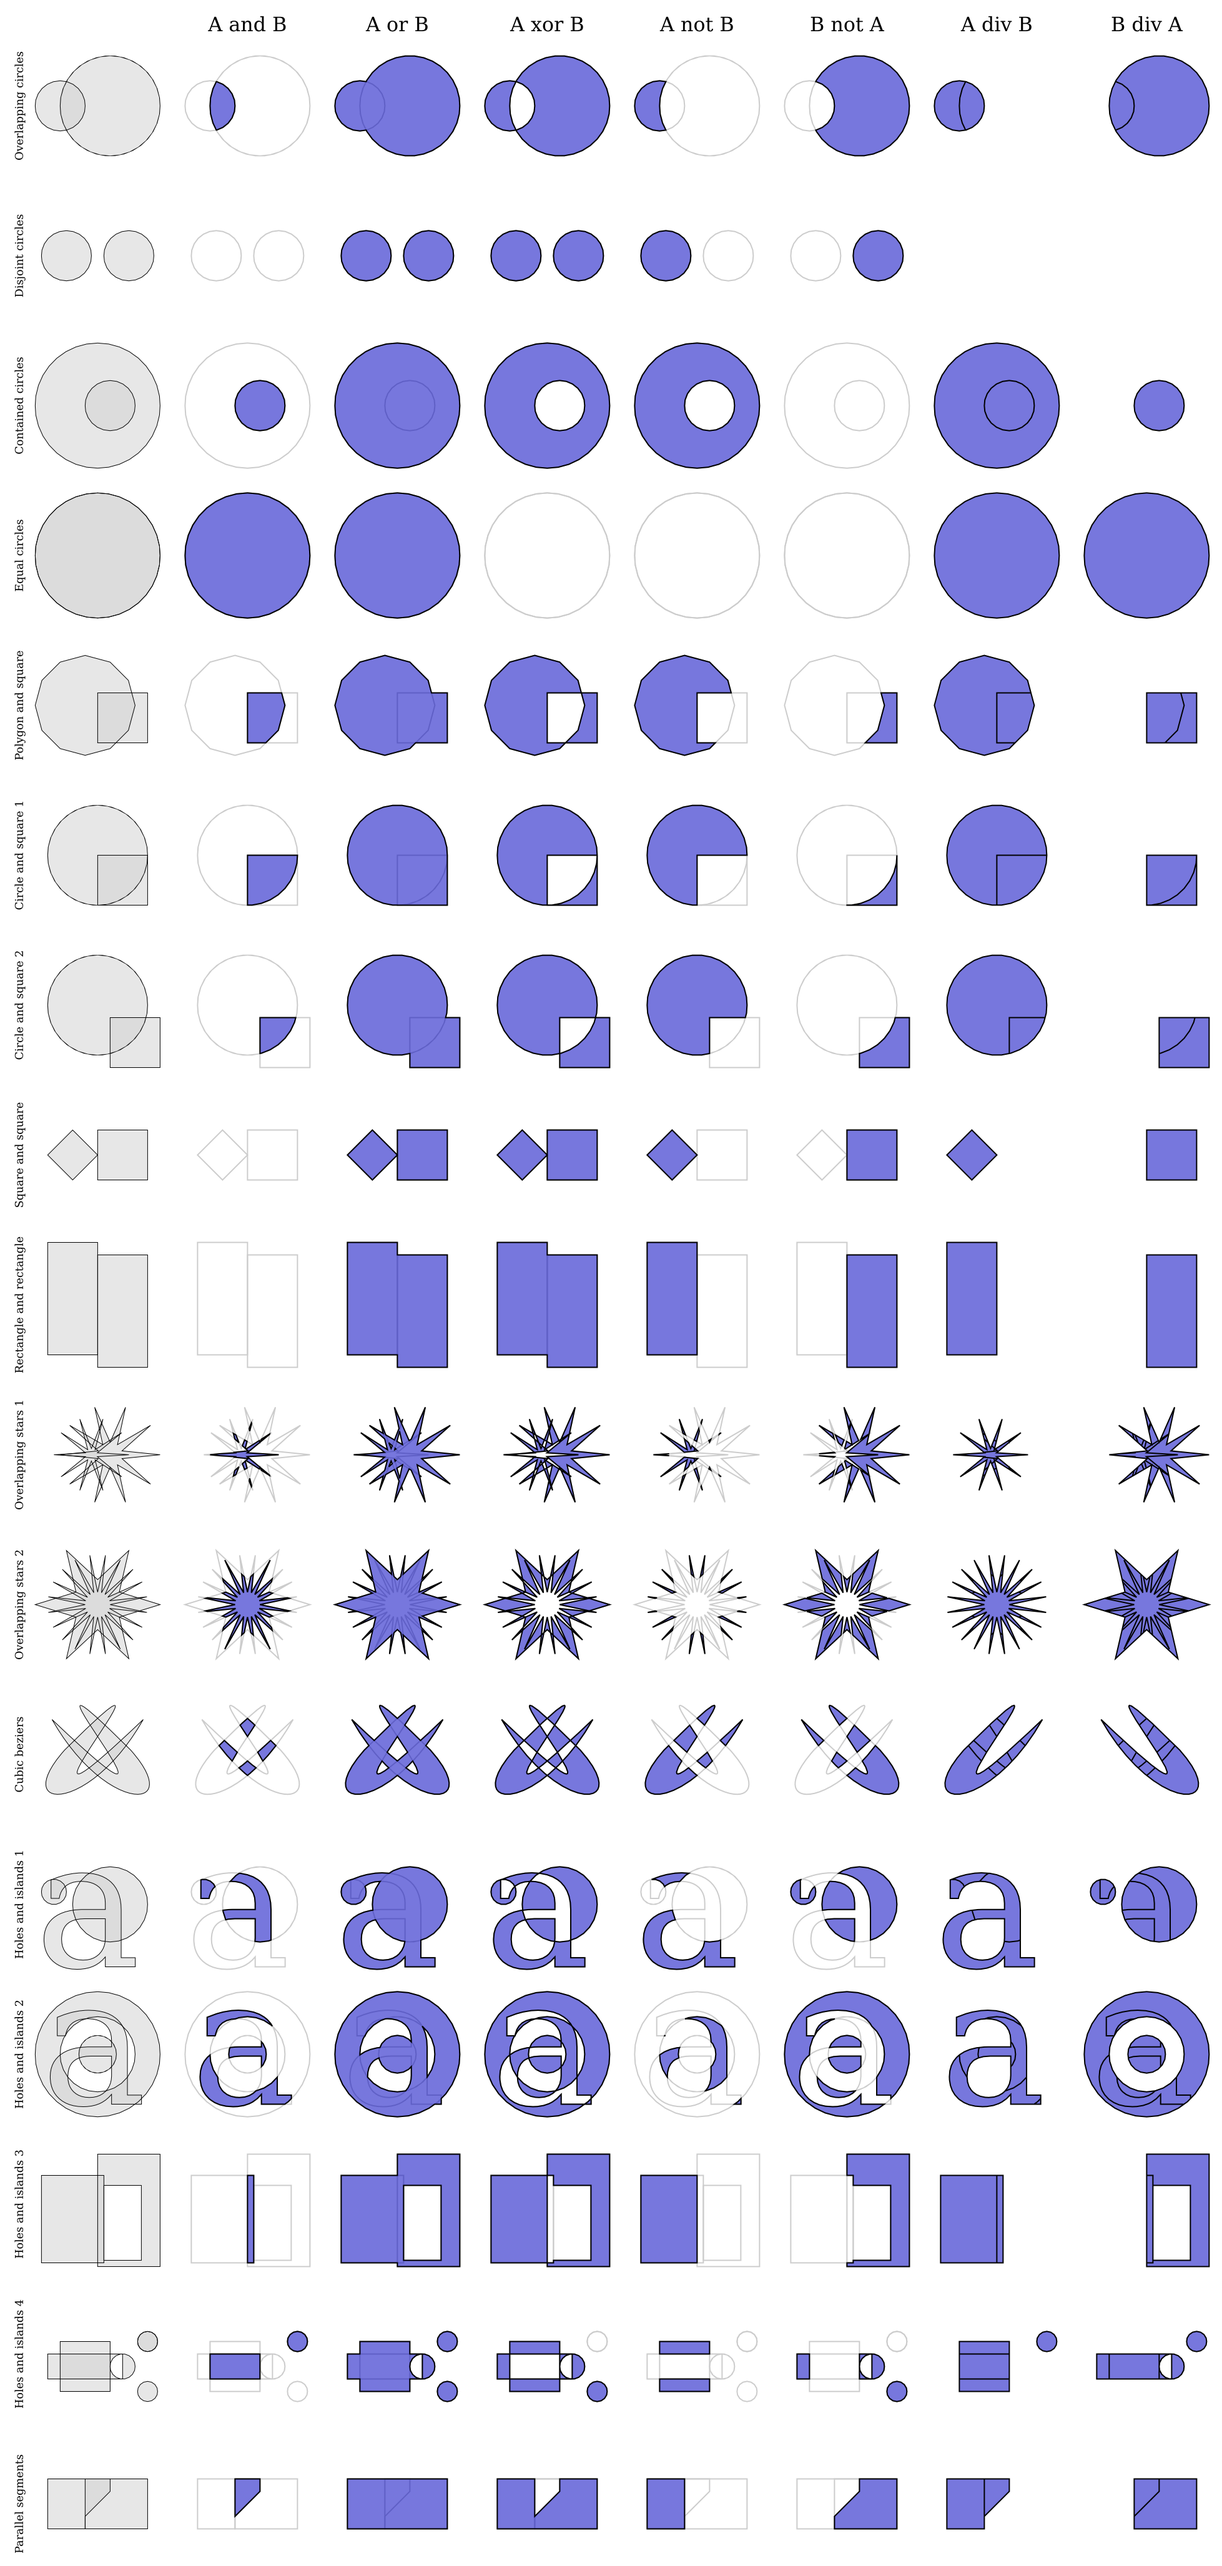
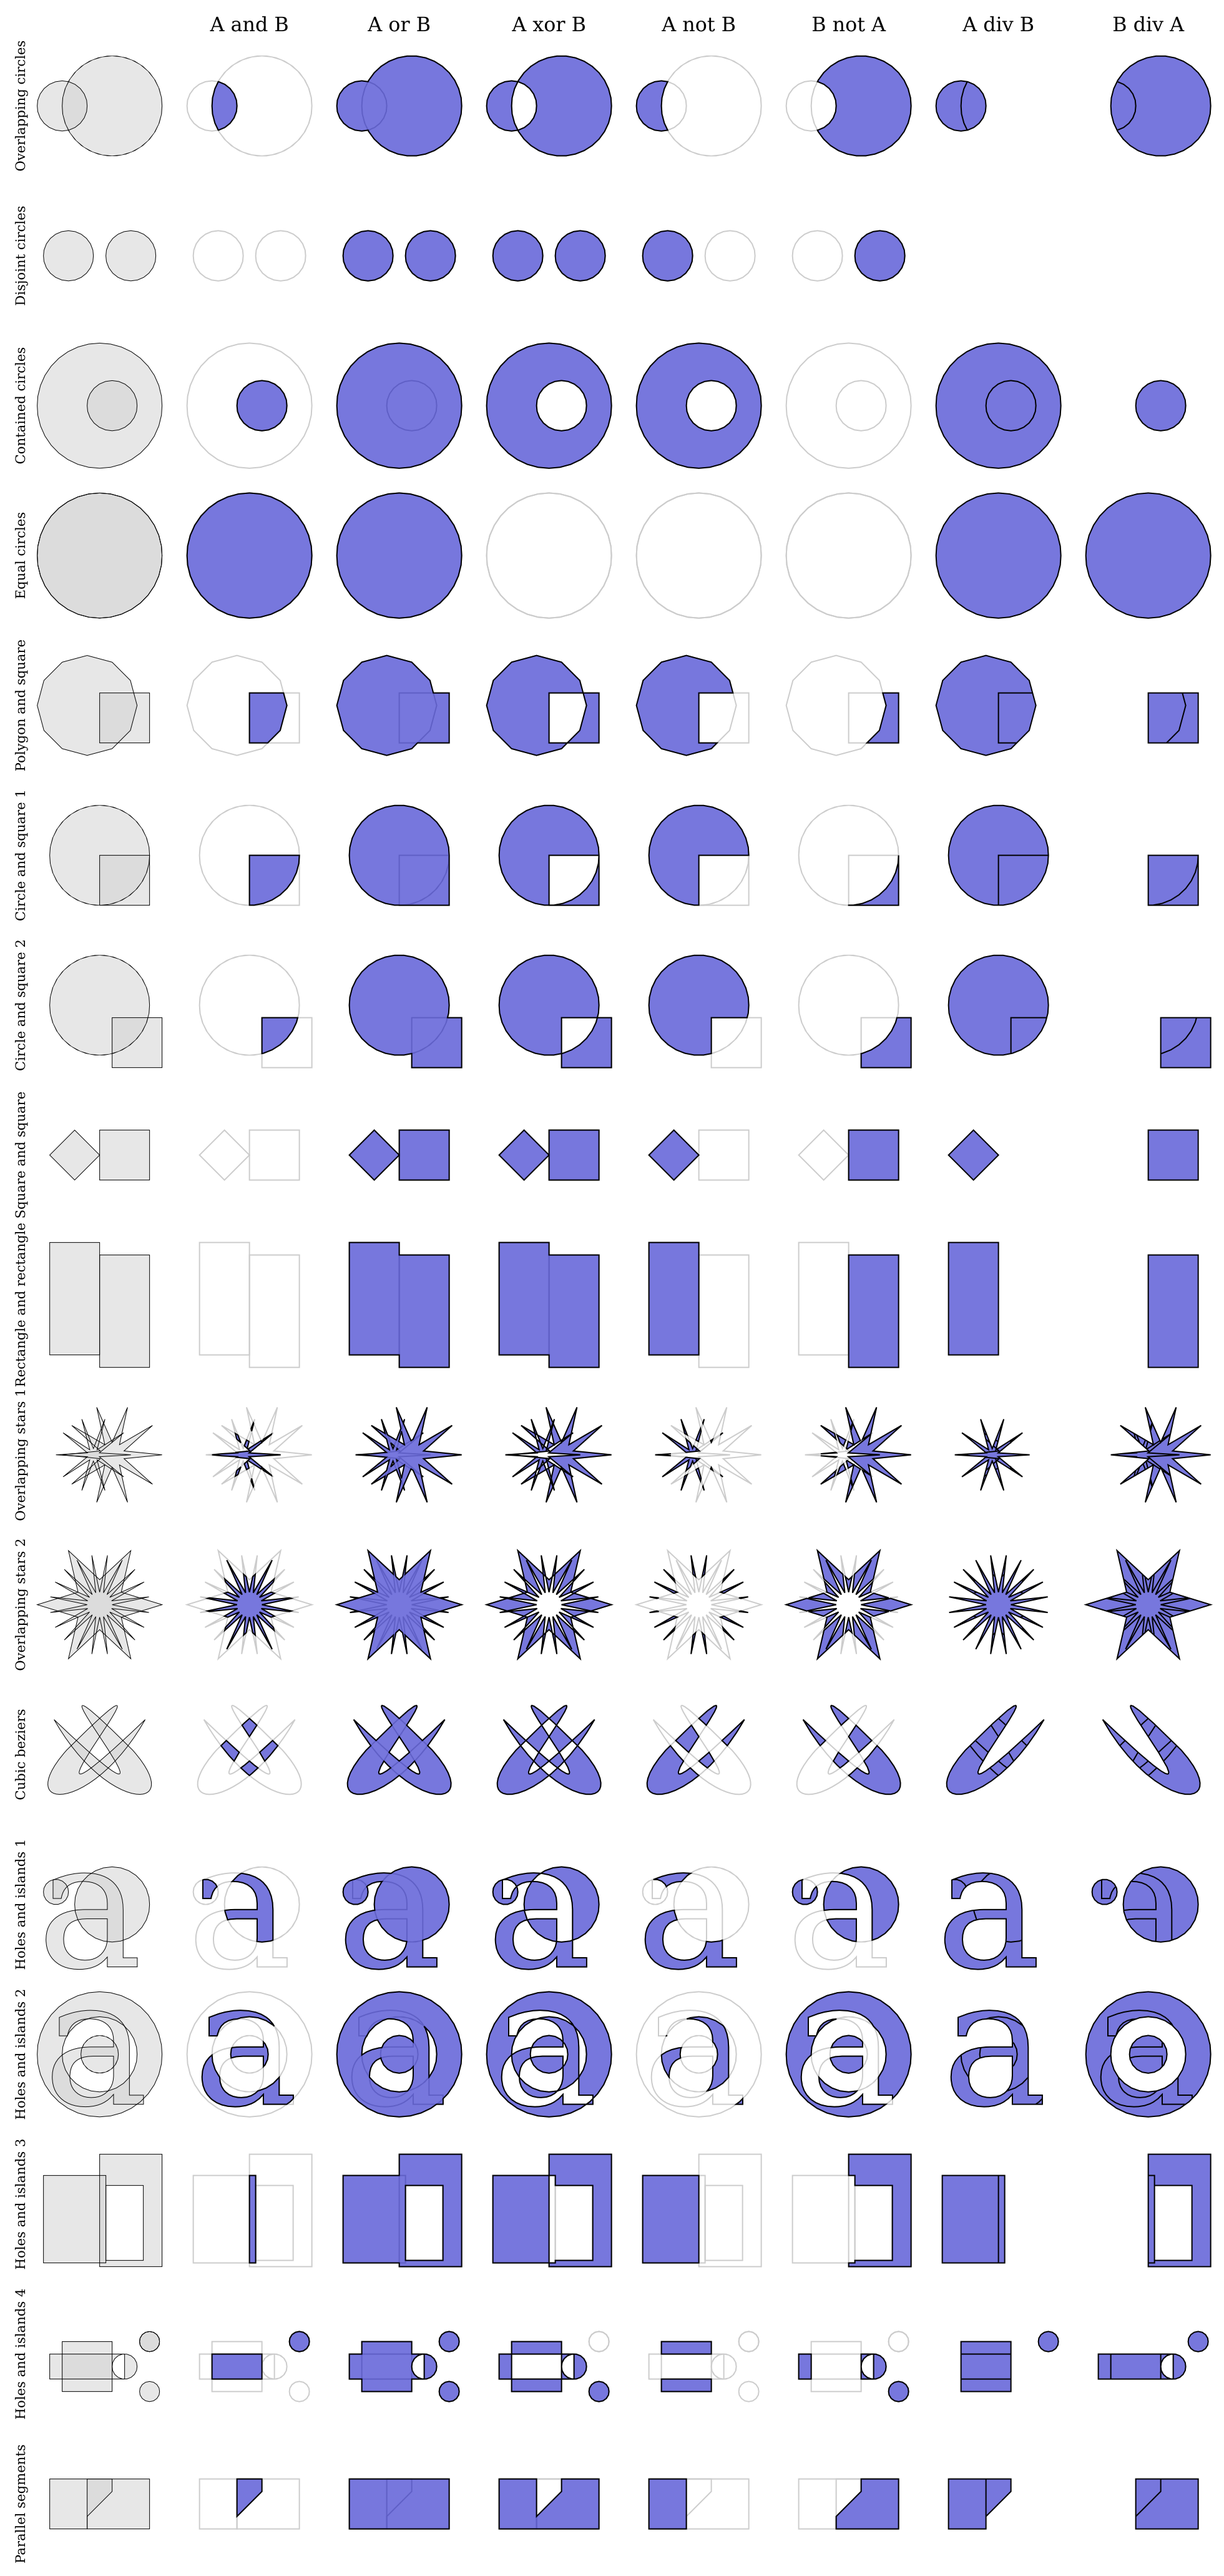
Update boolean example

diff --git a/resources/docs/boolean/main.go b/resources/docs/boolean/main.go
@@ -91,7 +91,7 @@ func main() {
 }
 
 func draw(ctx *canvas.Context, y float64, title string, p, q *canvas.Path) {
-	face := font.Face(2.5, canvas.Black, canvas.FontRegular, canvas.FontNormal)
+	face := font.Face(3.0, canvas.Black, canvas.FontRegular, canvas.FontNormal)
 	ctx.Translate(2.0, y+5.0)
 	ctx.Rotate(90.0)
 	ctx.DrawText(0.0, 0.0, canvas.NewTextLine(face, title, canvas.Center))
